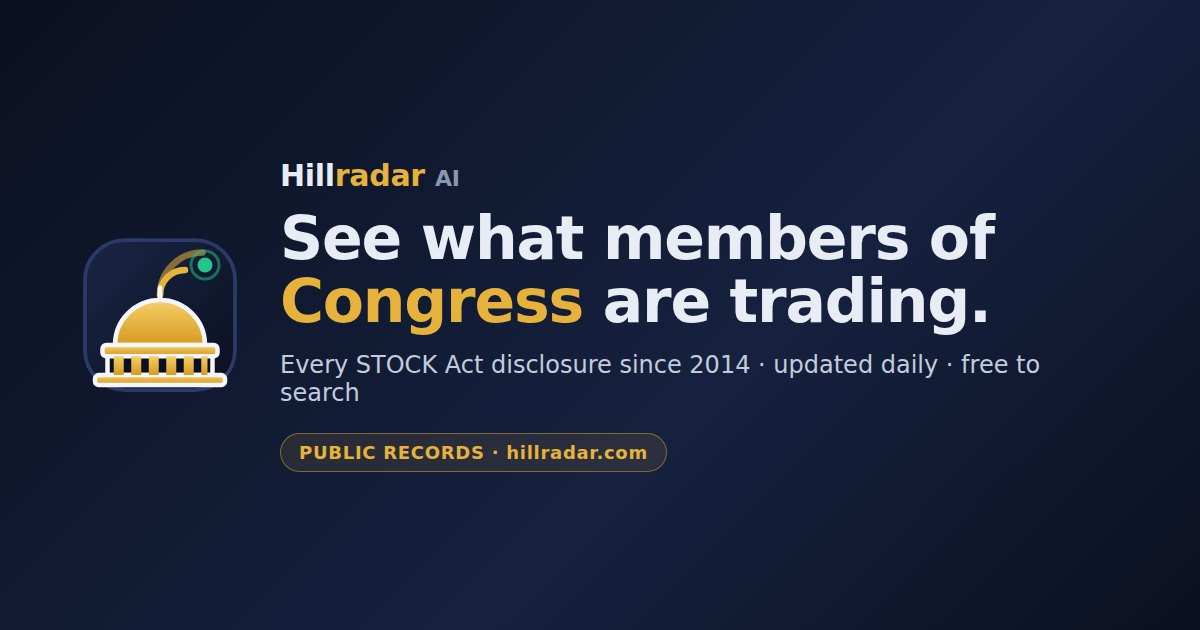
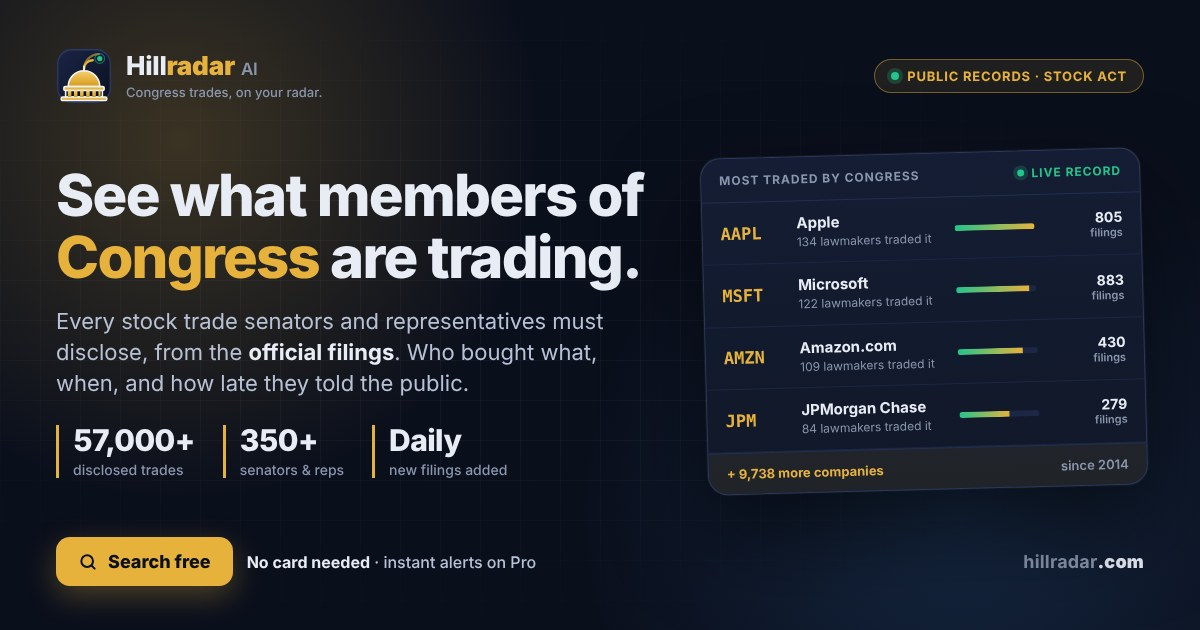
Pro social card: new OG image, conversion-focused share title/description
- assets/og-image.jpg (+ .png copy): 1200x630 card with headline, proof stats and
  a "most traded by Congress" panel built from tools/data.json
- tools/render-og.mjs renders it with Playwright, like the blog hero images
- index.html: new og:/twitter: title and description, twitter:site, image alt,
  secure_url/type, primaryImageOfPage in JSON-LD, ?v=2 cache-bust on image URLs
- faq/terms/privacy/disclaimer/contact pointed at a missing og-image.png; now .jpg
- README: how to rebuild the card and re-scrape caches

Claude-Session: https://claude.ai/code/session_01WJhBgm3gkf5NjjrWmT5aNU

diff --git a/index.html b/index.html
@@ -17,16 +17,21 @@
 <meta property="og:locale" content="en_US">
 <meta property="og:type" content="website">
 <meta property="og:url" content="https://hillradar.com/">
-<meta property="og:title" content="Congress Stock Trades Tracker | Hillradar AI">
-<meta property="og:description" content="Every stock trade members of Congress disclose under the STOCK Act, from the official filings. Searchable, updated daily, free.">
-<meta property="og:image" content="https://hillradar.com/assets/og-image.jpg">
+<meta property="og:title" content="See What Members of Congress Are Trading | Hillradar AI">
+<meta property="og:description" content="57,000+ stock trades disclosed by senators and representatives since 2014, from the official STOCK Act filings. Updated daily. Search free, no card needed.">
+<meta property="og:image" content="https://hillradar.com/assets/og-image.jpg?v=2">
+<meta property="og:image:secure_url" content="https://hillradar.com/assets/og-image.jpg?v=2">
+<meta property="og:image:type" content="image/jpeg">
 <meta property="og:image:width" content="1200">
 <meta property="og:image:height" content="630">
-<meta property="og:image:alt" content="Hillradar AI — Congress stock trades tracker">
+<meta property="og:image:alt" content="Hillradar AI: see what members of Congress are trading. 57,000+ disclosed trades, 350+ lawmakers, updated daily. Search free.">
 <meta name="twitter:card" content="summary_large_image">
-<meta name="twitter:title" content="Congress Stock Trades Tracker | Hillradar AI">
-<meta name="twitter:description" content="Every stock trade members of Congress disclose under the STOCK Act, from the official filings. Searchable, updated daily, free.">
-<meta name="twitter:image" content="https://hillradar.com/assets/og-image.jpg">
+<meta name="twitter:site" content="@hillradarai">
+<meta name="twitter:creator" content="@hillradarai">
+<meta name="twitter:title" content="See What Members of Congress Are Trading | Hillradar AI">
+<meta name="twitter:description" content="57,000+ stock trades disclosed by senators and representatives since 2014, from the official STOCK Act filings. Updated daily. Search free, no card needed.">
+<meta name="twitter:image" content="https://hillradar.com/assets/og-image.jpg?v=2">
+<meta name="twitter:image:alt" content="Hillradar AI: see what members of Congress are trading. 57,000+ disclosed trades, 350+ lawmakers, updated daily. Search free.">
 <link rel="preconnect" href="https://fonts.googleapis.com">
 <link rel="preconnect" href="https://fonts.gstatic.com" crossorigin>
 <link href="https://fonts.googleapis.com/css2?family=Inter:wght@400;500;600;700;800&display=swap" rel="stylesheet">
@@ -35,7 +40,7 @@
 {"@context":"https://schema.org","@graph":[
  {"@type":"Organization","@id":"https://hillradar.com/#org","name":"Hillradar AI","url":"https://hillradar.com/","logo":{"@type":"ImageObject","url":"https://hillradar.com/assets/icon-512.png","width":512,"height":512},"email":"info@hillradar.com","sameAs":["https://x.com/hillradarai"],"contactPoint":{"@type":"ContactPoint","contactType":"customer support","email":"info@hillradar.com","availableLanguage":"en"}},
  {"@type":"WebSite","@id":"https://hillradar.com/#website","url":"https://hillradar.com/","name":"Hillradar AI","publisher":{"@id":"https://hillradar.com/#org"},"inLanguage":"en-US"},
- {"@type":"WebPage","@id":"https://hillradar.com/#webpage","url":"https://hillradar.com/","name":"Congress Stock Trades Tracker | Hillradar AI","isPartOf":{"@id":"https://hillradar.com/#website"},"about":{"@id":"https://hillradar.com/#app"},"description":"Track every stock trade US senators and representatives disclose under the STOCK Act. 57,000+ filings since 2014, updated daily.","inLanguage":"en-US","dateModified":"2026-10-13"},
+ {"@type":"WebPage","@id":"https://hillradar.com/#webpage","url":"https://hillradar.com/","name":"Congress Stock Trades Tracker | Hillradar AI","isPartOf":{"@id":"https://hillradar.com/#website"},"about":{"@id":"https://hillradar.com/#app"},"description":"Track every stock trade US senators and representatives disclose under the STOCK Act. 57,000+ filings since 2014, updated daily.","inLanguage":"en-US","dateModified":"2026-10-19","primaryImageOfPage":{"@type":"ImageObject","url":"https://hillradar.com/assets/og-image.jpg","width":1200,"height":630}},
  {"@type":"SoftwareApplication","@id":"https://hillradar.com/#app","name":"Hillradar AI","applicationCategory":"ReferenceApplication","applicationSubCategory":"Government transparency / public records","operatingSystem":"Web, Android, iOS","url":"https://hillradar.com/","description":"Searchable database of stock trades disclosed by members of the US Congress under the STOCK Act, with lawmaker profiles, company views, activity clusters and alerts.","publisher":{"@id":"https://hillradar.com/#org"},"offers":[{"@type":"Offer","name":"Free","price":"0","priceCurrency":"USD"},{"@type":"Offer","name":"Pro","price":"497","priceCurrency":"USD","priceSpecification":{"@type":"UnitPriceSpecification","price":"497","priceCurrency":"USD","billingDuration":"P1Y"}}],"featureList":["Every disclosed congressional trade since 2014","Lawmaker and company profiles","Activity clusters with plain-English reasons","Telegram, WhatsApp and email alerts","CSV export","Installable app, works offline"]},
  {"@type":"FAQPage","mainEntity":[
   {"@type":"Question","name":"Where does the congressional trade data come from?","acceptedAnswer":{"@type":"Answer","text":"From the public disclosures members of Congress must file under the STOCK Act with the Clerk of the House and the Secretary of the Senate, as published in open datasets built from those filings, plus the official congressional directory for names, parties and photos. Every trade traces back to an official filing."}},

diff --git a/faq/index.html b/faq/index.html
@@ -3,8 +3,8 @@
 <meta name="robots" content="index, follow, max-snippet:-1, max-image-preview:large">
 <meta name="theme-color" content="#0a0f1c">
 <link rel="icon" href="/assets/favicon.png"><link rel="apple-touch-icon" href="/assets/apple-touch-icon.png">
-<meta property="og:site_name" content="Hillradar AI"><meta property="og:type" content="article"><meta property="og:url" content="https://hillradar.com/faq/"><meta property="og:title" content="Help Center & FAQ — Congress Stock Trades Tracker | Hillradar AI"><meta property="og:description" content="Answers on where Hillradar AI's congressional trade data comes from, filing speed, AI Scanning, the Investment Plan, Free vs Pro pricing and alerts."><meta property="og:image" content="https://hillradar.com/assets/og-image.png"><meta property="og:image:width" content="1200"><meta property="og:image:height" content="630">
-<meta name="twitter:card" content="summary_large_image"><meta name="twitter:title" content="Help Center & FAQ — Congress Stock Trades Tracker | Hillradar AI"><meta name="twitter:description" content="Answers on where Hillradar AI's congressional trade data comes from, filing speed, AI Scanning, the Investment Plan, Free vs Pro pricing and alerts."><meta name="twitter:image" content="https://hillradar.com/assets/og-image.png">
+<meta property="og:site_name" content="Hillradar AI"><meta property="og:type" content="article"><meta property="og:url" content="https://hillradar.com/faq/"><meta property="og:title" content="Help Center & FAQ — Congress Stock Trades Tracker | Hillradar AI"><meta property="og:description" content="Answers on where Hillradar AI's congressional trade data comes from, filing speed, AI Scanning, the Investment Plan, Free vs Pro pricing and alerts."><meta property="og:image" content="https://hillradar.com/assets/og-image.jpg?v=2"><meta property="og:image:width" content="1200"><meta property="og:image:height" content="630">
+<meta name="twitter:card" content="summary_large_image"><meta name="twitter:title" content="Help Center & FAQ — Congress Stock Trades Tracker | Hillradar AI"><meta name="twitter:description" content="Answers on where Hillradar AI's congressional trade data comes from, filing speed, AI Scanning, the Investment Plan, Free vs Pro pricing and alerts."><meta name="twitter:image" content="https://hillradar.com/assets/og-image.jpg?v=2">
 <script type="application/ld+json">{"@context":"https://schema.org","@graph":[{"@type":"BreadcrumbList","itemListElement":[{"@type":"ListItem","position":1,"name":"Home","item":"https://hillradar.com/"},{"@type":"ListItem","position":2,"name":"Help Center & FAQ","item":"https://hillradar.com/faq/"}]},{"@type":"WebPage","@id":"https://hillradar.com/faq/#webpage","url":"https://hillradar.com/faq/","name":"Help Center & FAQ — Congress Stock Trades Tracker | Hillradar AI","description":"Answers on where Hillradar AI's congressional trade data comes from, filing speed, AI Scanning, the Investment Plan, Free vs Pro pricing and alerts.","isPartOf":{"@id":"https://hillradar.com/#website"},"publisher":{"@id":"https://hillradar.com/#org"},"inLanguage":"en-US","dateModified":"2026-10-13"}]}</script>
 <style>
 :root{--bg:#0a0f1c;--card:#121a2e;--line:#223052;--ink:#e7ecf5;--mute:#8a96ad;--gold:#e7b23c;--buy:#22c58b;--sell:#f26a6a}

diff --git a/disclaimer/index.html b/disclaimer/index.html
@@ -3,8 +3,8 @@
 <meta name="robots" content="index, follow, max-snippet:-1, max-image-preview:large">
 <meta name="theme-color" content="#0a0f1c">
 <link rel="icon" href="/assets/favicon.png"><link rel="apple-touch-icon" href="/assets/apple-touch-icon.png">
-<meta property="og:site_name" content="Hillradar AI"><meta property="og:type" content="article"><meta property="og:url" content="https://hillradar.com/disclaimer/"><meta property="og:title" content="Disclaimer — Not Financial Advice | Hillradar AI"><meta property="og:description" content="Hillradar AI republishes public STOCK Act disclosures for research and education. Not financial advice; known data limitations, no warranty, corrections."><meta property="og:image" content="https://hillradar.com/assets/og-image.png"><meta property="og:image:width" content="1200"><meta property="og:image:height" content="630">
-<meta name="twitter:card" content="summary_large_image"><meta name="twitter:title" content="Disclaimer — Not Financial Advice | Hillradar AI"><meta name="twitter:description" content="Hillradar AI republishes public STOCK Act disclosures for research and education. Not financial advice; known data limitations, no warranty, corrections."><meta name="twitter:image" content="https://hillradar.com/assets/og-image.png">
+<meta property="og:site_name" content="Hillradar AI"><meta property="og:type" content="article"><meta property="og:url" content="https://hillradar.com/disclaimer/"><meta property="og:title" content="Disclaimer — Not Financial Advice | Hillradar AI"><meta property="og:description" content="Hillradar AI republishes public STOCK Act disclosures for research and education. Not financial advice; known data limitations, no warranty, corrections."><meta property="og:image" content="https://hillradar.com/assets/og-image.jpg?v=2"><meta property="og:image:width" content="1200"><meta property="og:image:height" content="630">
+<meta name="twitter:card" content="summary_large_image"><meta name="twitter:title" content="Disclaimer — Not Financial Advice | Hillradar AI"><meta name="twitter:description" content="Hillradar AI republishes public STOCK Act disclosures for research and education. Not financial advice; known data limitations, no warranty, corrections."><meta name="twitter:image" content="https://hillradar.com/assets/og-image.jpg?v=2">
 <script type="application/ld+json">{"@context":"https://schema.org","@graph":[{"@type":"BreadcrumbList","itemListElement":[{"@type":"ListItem","position":1,"name":"Home","item":"https://hillradar.com/"},{"@type":"ListItem","position":2,"name":"Disclaimer","item":"https://hillradar.com/disclaimer/"}]},{"@type":"WebPage","@id":"https://hillradar.com/disclaimer/#webpage","url":"https://hillradar.com/disclaimer/","name":"Disclaimer — Not Financial Advice | Hillradar AI","description":"Hillradar AI republishes public STOCK Act disclosures for research and education. Not financial advice; known data limitations, no warranty, corrections.","isPartOf":{"@id":"https://hillradar.com/#website"},"publisher":{"@id":"https://hillradar.com/#org"},"inLanguage":"en-US","dateModified":"2026-10-13"}]}</script>
 <style>
 :root{--bg:#0a0f1c;--card:#121a2e;--line:#223052;--ink:#e7ecf5;--mute:#8a96ad;--gold:#e7b23c;--buy:#22c58b;--sell:#f26a6a}

diff --git a/terms/index.html b/terms/index.html
@@ -3,8 +3,8 @@
 <meta name="robots" content="index, follow, max-snippet:-1, max-image-preview:large">
 <meta name="theme-color" content="#0a0f1c">
 <link rel="icon" href="/assets/favicon.png"><link rel="apple-touch-icon" href="/assets/apple-touch-icon.png">
-<meta property="og:site_name" content="Hillradar AI"><meta property="og:type" content="article"><meta property="og:url" content="https://hillradar.com/terms/"><meta property="og:title" content="Terms & Conditions | Hillradar AI"><meta property="og:description" content="Terms for using Hillradar AI: accounts, Free and Pro plans, billing and refunds, acceptable use, data sources, no financial advice, liability, governing law."><meta property="og:image" content="https://hillradar.com/assets/og-image.png"><meta property="og:image:width" content="1200"><meta property="og:image:height" content="630">
-<meta name="twitter:card" content="summary_large_image"><meta name="twitter:title" content="Terms & Conditions | Hillradar AI"><meta name="twitter:description" content="Terms for using Hillradar AI: accounts, Free and Pro plans, billing and refunds, acceptable use, data sources, no financial advice, liability, governing law."><meta name="twitter:image" content="https://hillradar.com/assets/og-image.png">
+<meta property="og:site_name" content="Hillradar AI"><meta property="og:type" content="article"><meta property="og:url" content="https://hillradar.com/terms/"><meta property="og:title" content="Terms & Conditions | Hillradar AI"><meta property="og:description" content="Terms for using Hillradar AI: accounts, Free and Pro plans, billing and refunds, acceptable use, data sources, no financial advice, liability, governing law."><meta property="og:image" content="https://hillradar.com/assets/og-image.jpg?v=2"><meta property="og:image:width" content="1200"><meta property="og:image:height" content="630">
+<meta name="twitter:card" content="summary_large_image"><meta name="twitter:title" content="Terms & Conditions | Hillradar AI"><meta name="twitter:description" content="Terms for using Hillradar AI: accounts, Free and Pro plans, billing and refunds, acceptable use, data sources, no financial advice, liability, governing law."><meta name="twitter:image" content="https://hillradar.com/assets/og-image.jpg?v=2">
 <script type="application/ld+json">{"@context":"https://schema.org","@graph":[{"@type":"BreadcrumbList","itemListElement":[{"@type":"ListItem","position":1,"name":"Home","item":"https://hillradar.com/"},{"@type":"ListItem","position":2,"name":"Terms & Conditions","item":"https://hillradar.com/terms/"}]},{"@type":"WebPage","@id":"https://hillradar.com/terms/#webpage","url":"https://hillradar.com/terms/","name":"Terms & Conditions | Hillradar AI","description":"Terms for using Hillradar AI: accounts, Free and Pro plans, billing and refunds, acceptable use, data sources, no financial advice, liability, governing law.","isPartOf":{"@id":"https://hillradar.com/#website"},"publisher":{"@id":"https://hillradar.com/#org"},"inLanguage":"en-US","dateModified":"2026-10-13"}]}</script>
 <style>
 :root{--bg:#0a0f1c;--card:#121a2e;--line:#223052;--ink:#e7ecf5;--mute:#8a96ad;--gold:#e7b23c;--buy:#22c58b;--sell:#f26a6a}

diff --git a/contact/index.html b/contact/index.html
@@ -3,8 +3,8 @@
 <meta name="robots" content="index, follow, max-snippet:-1, max-image-preview:large">
 <meta name="theme-color" content="#0a0f1c">
 <link rel="icon" href="/assets/favicon.png"><link rel="apple-touch-icon" href="/assets/apple-touch-icon.png">
-<meta property="og:site_name" content="Hillradar AI"><meta property="og:type" content="article"><meta property="og:url" content="https://hillradar.com/contact/"><meta property="og:title" content="Contact Us | Hillradar AI"><meta property="og:description" content="Reach Hillradar AI for account help, Pro membership, data corrections, press and partnerships. Most messages get a reply within one business day."><meta property="og:image" content="https://hillradar.com/assets/og-image.png"><meta property="og:image:width" content="1200"><meta property="og:image:height" content="630">
-<meta name="twitter:card" content="summary_large_image"><meta name="twitter:title" content="Contact Us | Hillradar AI"><meta name="twitter:description" content="Reach Hillradar AI for account help, Pro membership, data corrections, press and partnerships. Most messages get a reply within one business day."><meta name="twitter:image" content="https://hillradar.com/assets/og-image.png">
+<meta property="og:site_name" content="Hillradar AI"><meta property="og:type" content="article"><meta property="og:url" content="https://hillradar.com/contact/"><meta property="og:title" content="Contact Us | Hillradar AI"><meta property="og:description" content="Reach Hillradar AI for account help, Pro membership, data corrections, press and partnerships. Most messages get a reply within one business day."><meta property="og:image" content="https://hillradar.com/assets/og-image.jpg?v=2"><meta property="og:image:width" content="1200"><meta property="og:image:height" content="630">
+<meta name="twitter:card" content="summary_large_image"><meta name="twitter:title" content="Contact Us | Hillradar AI"><meta name="twitter:description" content="Reach Hillradar AI for account help, Pro membership, data corrections, press and partnerships. Most messages get a reply within one business day."><meta name="twitter:image" content="https://hillradar.com/assets/og-image.jpg?v=2">
 <script type="application/ld+json">{"@context":"https://schema.org","@graph":[{"@type":"BreadcrumbList","itemListElement":[{"@type":"ListItem","position":1,"name":"Home","item":"https://hillradar.com/"},{"@type":"ListItem","position":2,"name":"Contact Us","item":"https://hillradar.com/contact/"}]},{"@type":"WebPage","@id":"https://hillradar.com/contact/#webpage","url":"https://hillradar.com/contact/","name":"Contact Us | Hillradar AI","description":"Reach Hillradar AI for account help, Pro membership, data corrections, press and partnerships. Most messages get a reply within one business day.","isPartOf":{"@id":"https://hillradar.com/#website"},"publisher":{"@id":"https://hillradar.com/#org"},"inLanguage":"en-US","dateModified":"2026-10-13"}]}</script>
 <style>
 :root{--bg:#0a0f1c;--card:#121a2e;--line:#223052;--ink:#e7ecf5;--mute:#8a96ad;--gold:#e7b23c;--buy:#22c58b;--sell:#f26a6a}

diff --git a/privacy/index.html b/privacy/index.html
@@ -3,8 +3,8 @@
 <meta name="robots" content="index, follow, max-snippet:-1, max-image-preview:large">
 <meta name="theme-color" content="#0a0f1c">
 <link rel="icon" href="/assets/favicon.png"><link rel="apple-touch-icon" href="/assets/apple-touch-icon.png">
-<meta property="og:site_name" content="Hillradar AI"><meta property="og:type" content="article"><meta property="og:url" content="https://hillradar.com/privacy/"><meta property="og:title" content="Privacy Policy | Hillradar AI"><meta property="og:description" content="What Hillradar AI collects, how it is used and protected, cookies, retention, your rights and how to reach us. We never sell personal data."><meta property="og:image" content="https://hillradar.com/assets/og-image.png"><meta property="og:image:width" content="1200"><meta property="og:image:height" content="630">
-<meta name="twitter:card" content="summary_large_image"><meta name="twitter:title" content="Privacy Policy | Hillradar AI"><meta name="twitter:description" content="What Hillradar AI collects, how it is used and protected, cookies, retention, your rights and how to reach us. We never sell personal data."><meta name="twitter:image" content="https://hillradar.com/assets/og-image.png">
+<meta property="og:site_name" content="Hillradar AI"><meta property="og:type" content="article"><meta property="og:url" content="https://hillradar.com/privacy/"><meta property="og:title" content="Privacy Policy | Hillradar AI"><meta property="og:description" content="What Hillradar AI collects, how it is used and protected, cookies, retention, your rights and how to reach us. We never sell personal data."><meta property="og:image" content="https://hillradar.com/assets/og-image.jpg?v=2"><meta property="og:image:width" content="1200"><meta property="og:image:height" content="630">
+<meta name="twitter:card" content="summary_large_image"><meta name="twitter:title" content="Privacy Policy | Hillradar AI"><meta name="twitter:description" content="What Hillradar AI collects, how it is used and protected, cookies, retention, your rights and how to reach us. We never sell personal data."><meta name="twitter:image" content="https://hillradar.com/assets/og-image.jpg?v=2">
 <script type="application/ld+json">{"@context":"https://schema.org","@graph":[{"@type":"BreadcrumbList","itemListElement":[{"@type":"ListItem","position":1,"name":"Home","item":"https://hillradar.com/"},{"@type":"ListItem","position":2,"name":"Privacy Policy","item":"https://hillradar.com/privacy/"}]},{"@type":"WebPage","@id":"https://hillradar.com/privacy/#webpage","url":"https://hillradar.com/privacy/","name":"Privacy Policy | Hillradar AI","description":"What Hillradar AI collects, how it is used and protected, cookies, retention, your rights and how to reach us. We never sell personal data.","isPartOf":{"@id":"https://hillradar.com/#website"},"publisher":{"@id":"https://hillradar.com/#org"},"inLanguage":"en-US","dateModified":"2026-10-13"}]}</script>
 <style>
 :root{--bg:#0a0f1c;--card:#121a2e;--line:#223052;--ink:#e7ecf5;--mute:#8a96ad;--gold:#e7b23c;--buy:#22c58b;--sell:#f26a6a}

diff --git a/README.md b/README.md
@@ -28,3 +28,11 @@ Final URL: the root of this domain. Links to sign-up keep `?plan=` and `utm_*` p
 Articles live in `tools/articles.mjs` (numbers from `tools/data.json`). Build with `node tools/build-blog.mjs`
 (writes `/blog/`, `sitemap.xml`, the blog section of `llms.txt`) and `node tools/render-heroes.mjs` for the hero images.
 `.htaccess` gives clean URLs and 301s from the old `.html` paths on Apache hosts such as Hostinger.
+
+## Social card (Open Graph / Twitter)
+`assets/og-image.jpg` (and the `.png` copy the exported FAQ / legal pages use) is the 1200x630 preview shown when any page
+is shared on X, Facebook, LinkedIn, WhatsApp, Telegram or Slack. Rebuild it after `tools/data.json` changes with
+`node tools/render-og.mjs` (needs Playwright + Chromium, same as the hero images). The home page's `og:title`,
+`og:description` and `twitter:*` tags are in `index.html`. After changing the image bump `?v=` on the `og:image` URLs
+and re-scrape at https://developers.facebook.com/tools/debug/ and https://www.linkedin.com/post-inspector/ so the old
+preview is dropped from their caches.
